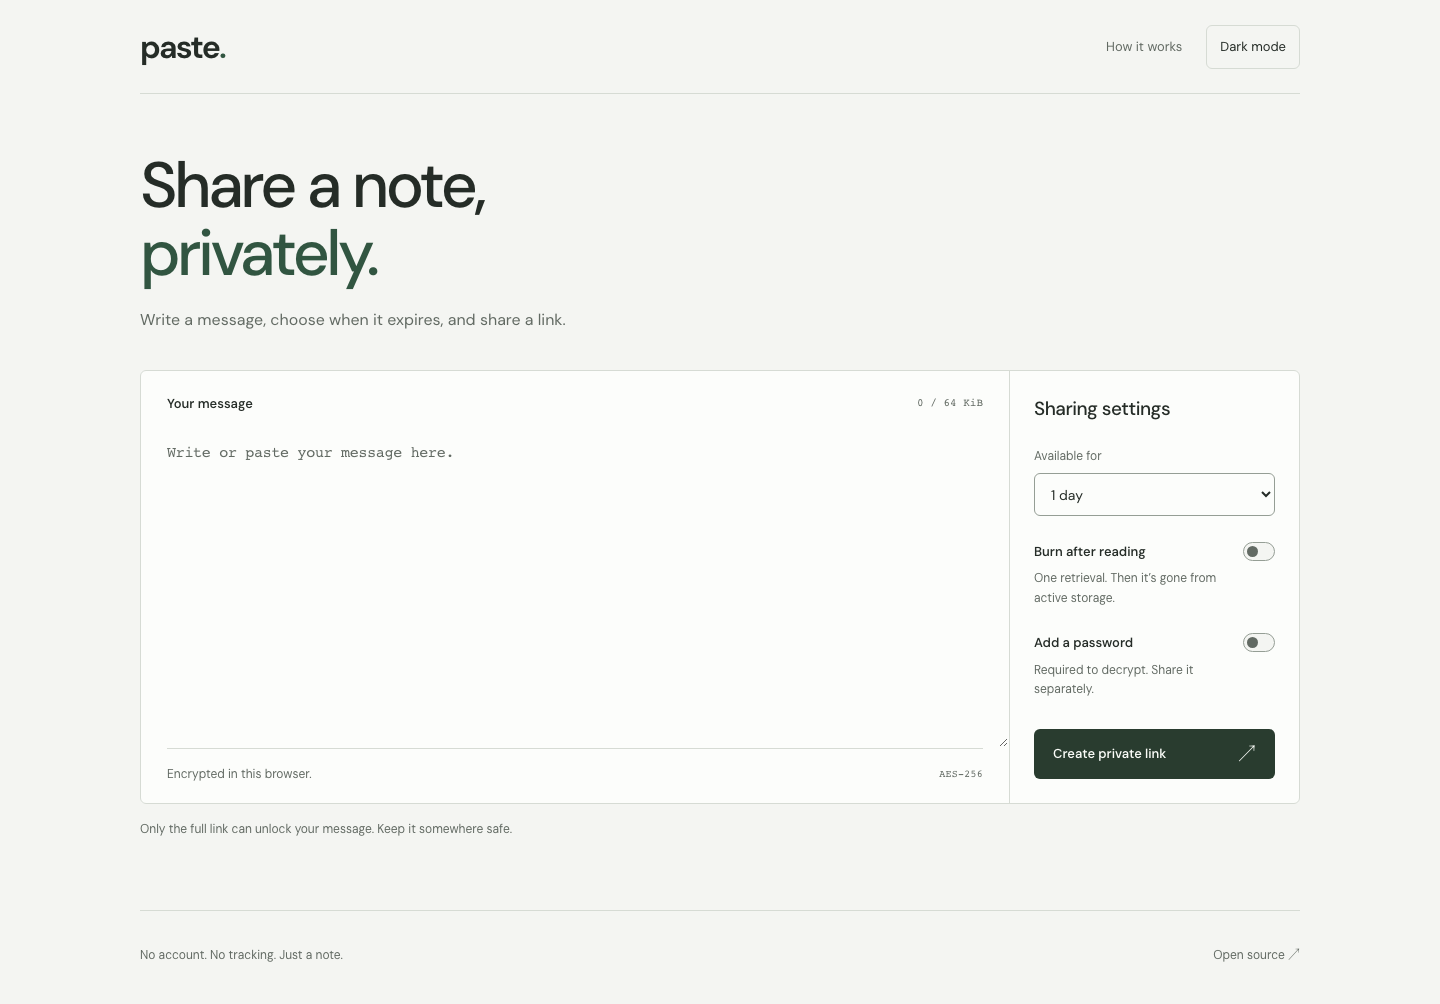
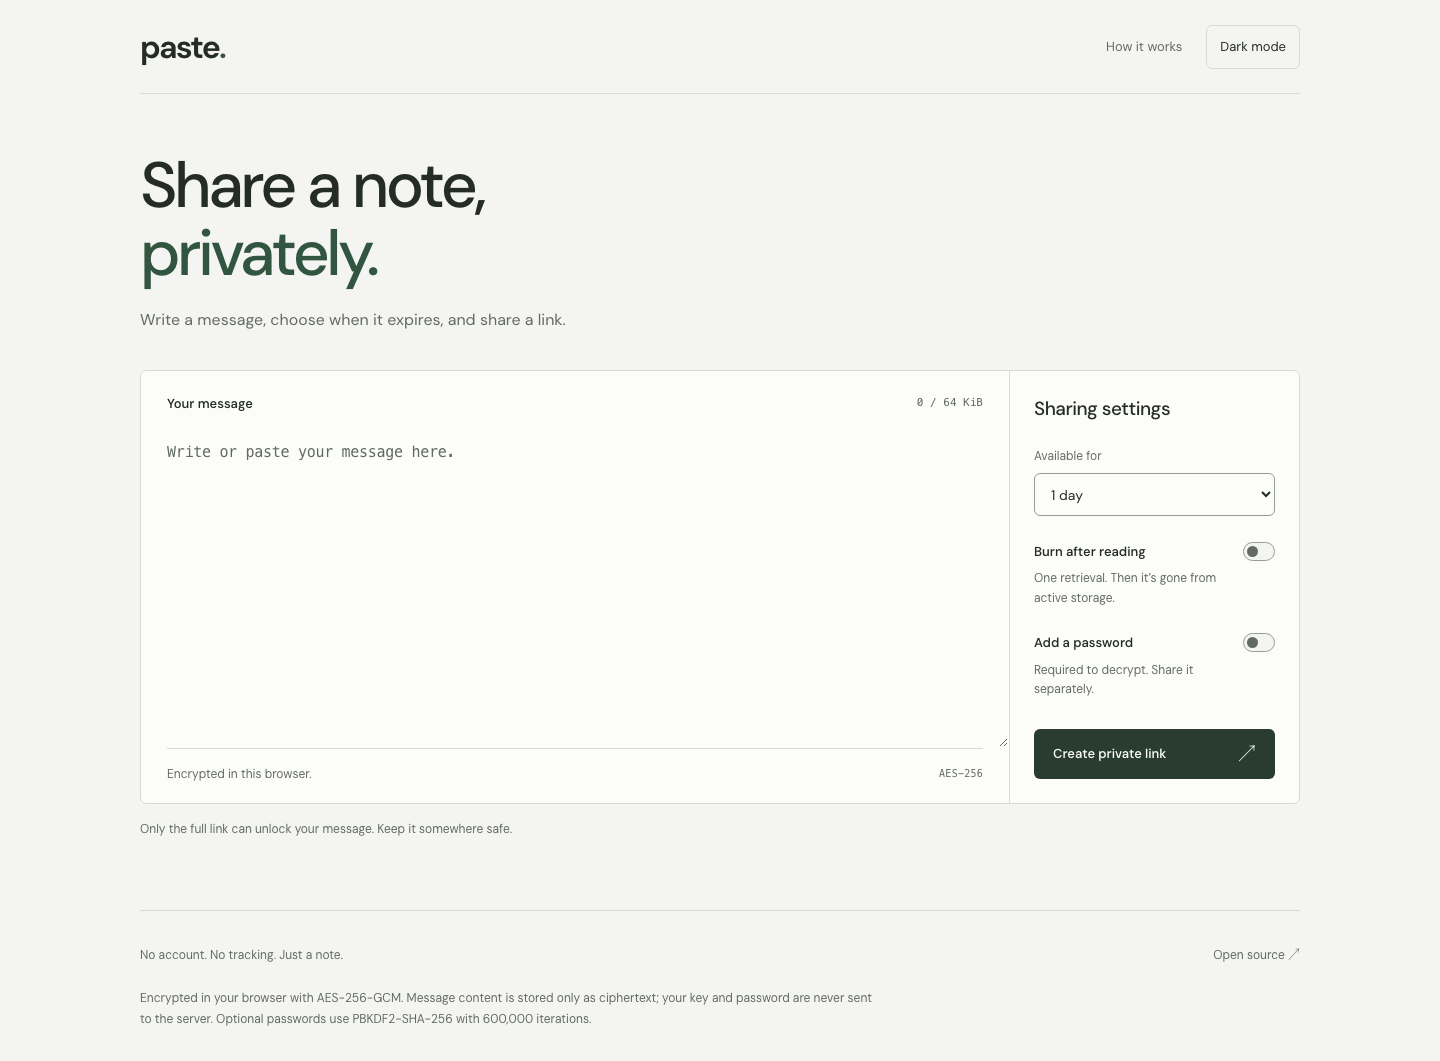
Explain browser encryption in the page footer

diff --git a/web/style.css b/web/style.css
@@ -105,7 +105,8 @@ input::placeholder { color: var(--muted); opacity: 1; }
 .button-arrow { font-size: 18px; font-weight: 400; line-height: 1; }
 .settings > .button { width: 100%; margin-top: 30px; }
 .workspace-note { color: var(--muted); font-size: 12px; margin-top: 16px; }
-.footer { margin-top: auto; padding-block: 25px 30px; border-top: 1px solid var(--line); display: flex; align-items: center; justify-content: space-between; gap: 16px; color: var(--muted); font-size: 12px; }
+.footer { margin-top: auto; padding-block: 25px 30px; border-top: 1px solid var(--line); display: grid; grid-template-columns: minmax(0, 1fr) auto; align-items: center; gap: 14px 16px; color: var(--muted); font-size: 12px; }
+.footer .footer-encryption { grid-column: 1 / -1; max-width: 90ch; padding-top: 0; line-height: 1.8; }
 .footer a { text-decoration: none; padding-block: 10px; }
 .footer a:hover { color: var(--text); text-decoration: underline; }
 .error-notice { border-left: 3px solid var(--error); background: var(--error-bg); padding: 15px 18px; margin-bottom: 24px; color: var(--error); font-size: 14px; }

diff --git a/web/index.html b/web/index.html
@@ -148,6 +148,7 @@
     <footer class="footer">
       <p>No account. No tracking. Just a note.</p>
       <a href="https://github.com/koljasagorski/Secure-Pastebin-Cloudflare-Worker" target="_blank" rel="noopener noreferrer">Open source <span aria-hidden="true">↗</span></a>
+      <p class="footer-encryption">Encrypted in your browser with AES-256-GCM. Message content is stored only as ciphertext; your key and password are never sent to the server. Optional passwords use PBKDF2-SHA-256 with 600,000 iterations.</p>
     </footer>
   </div>
 
